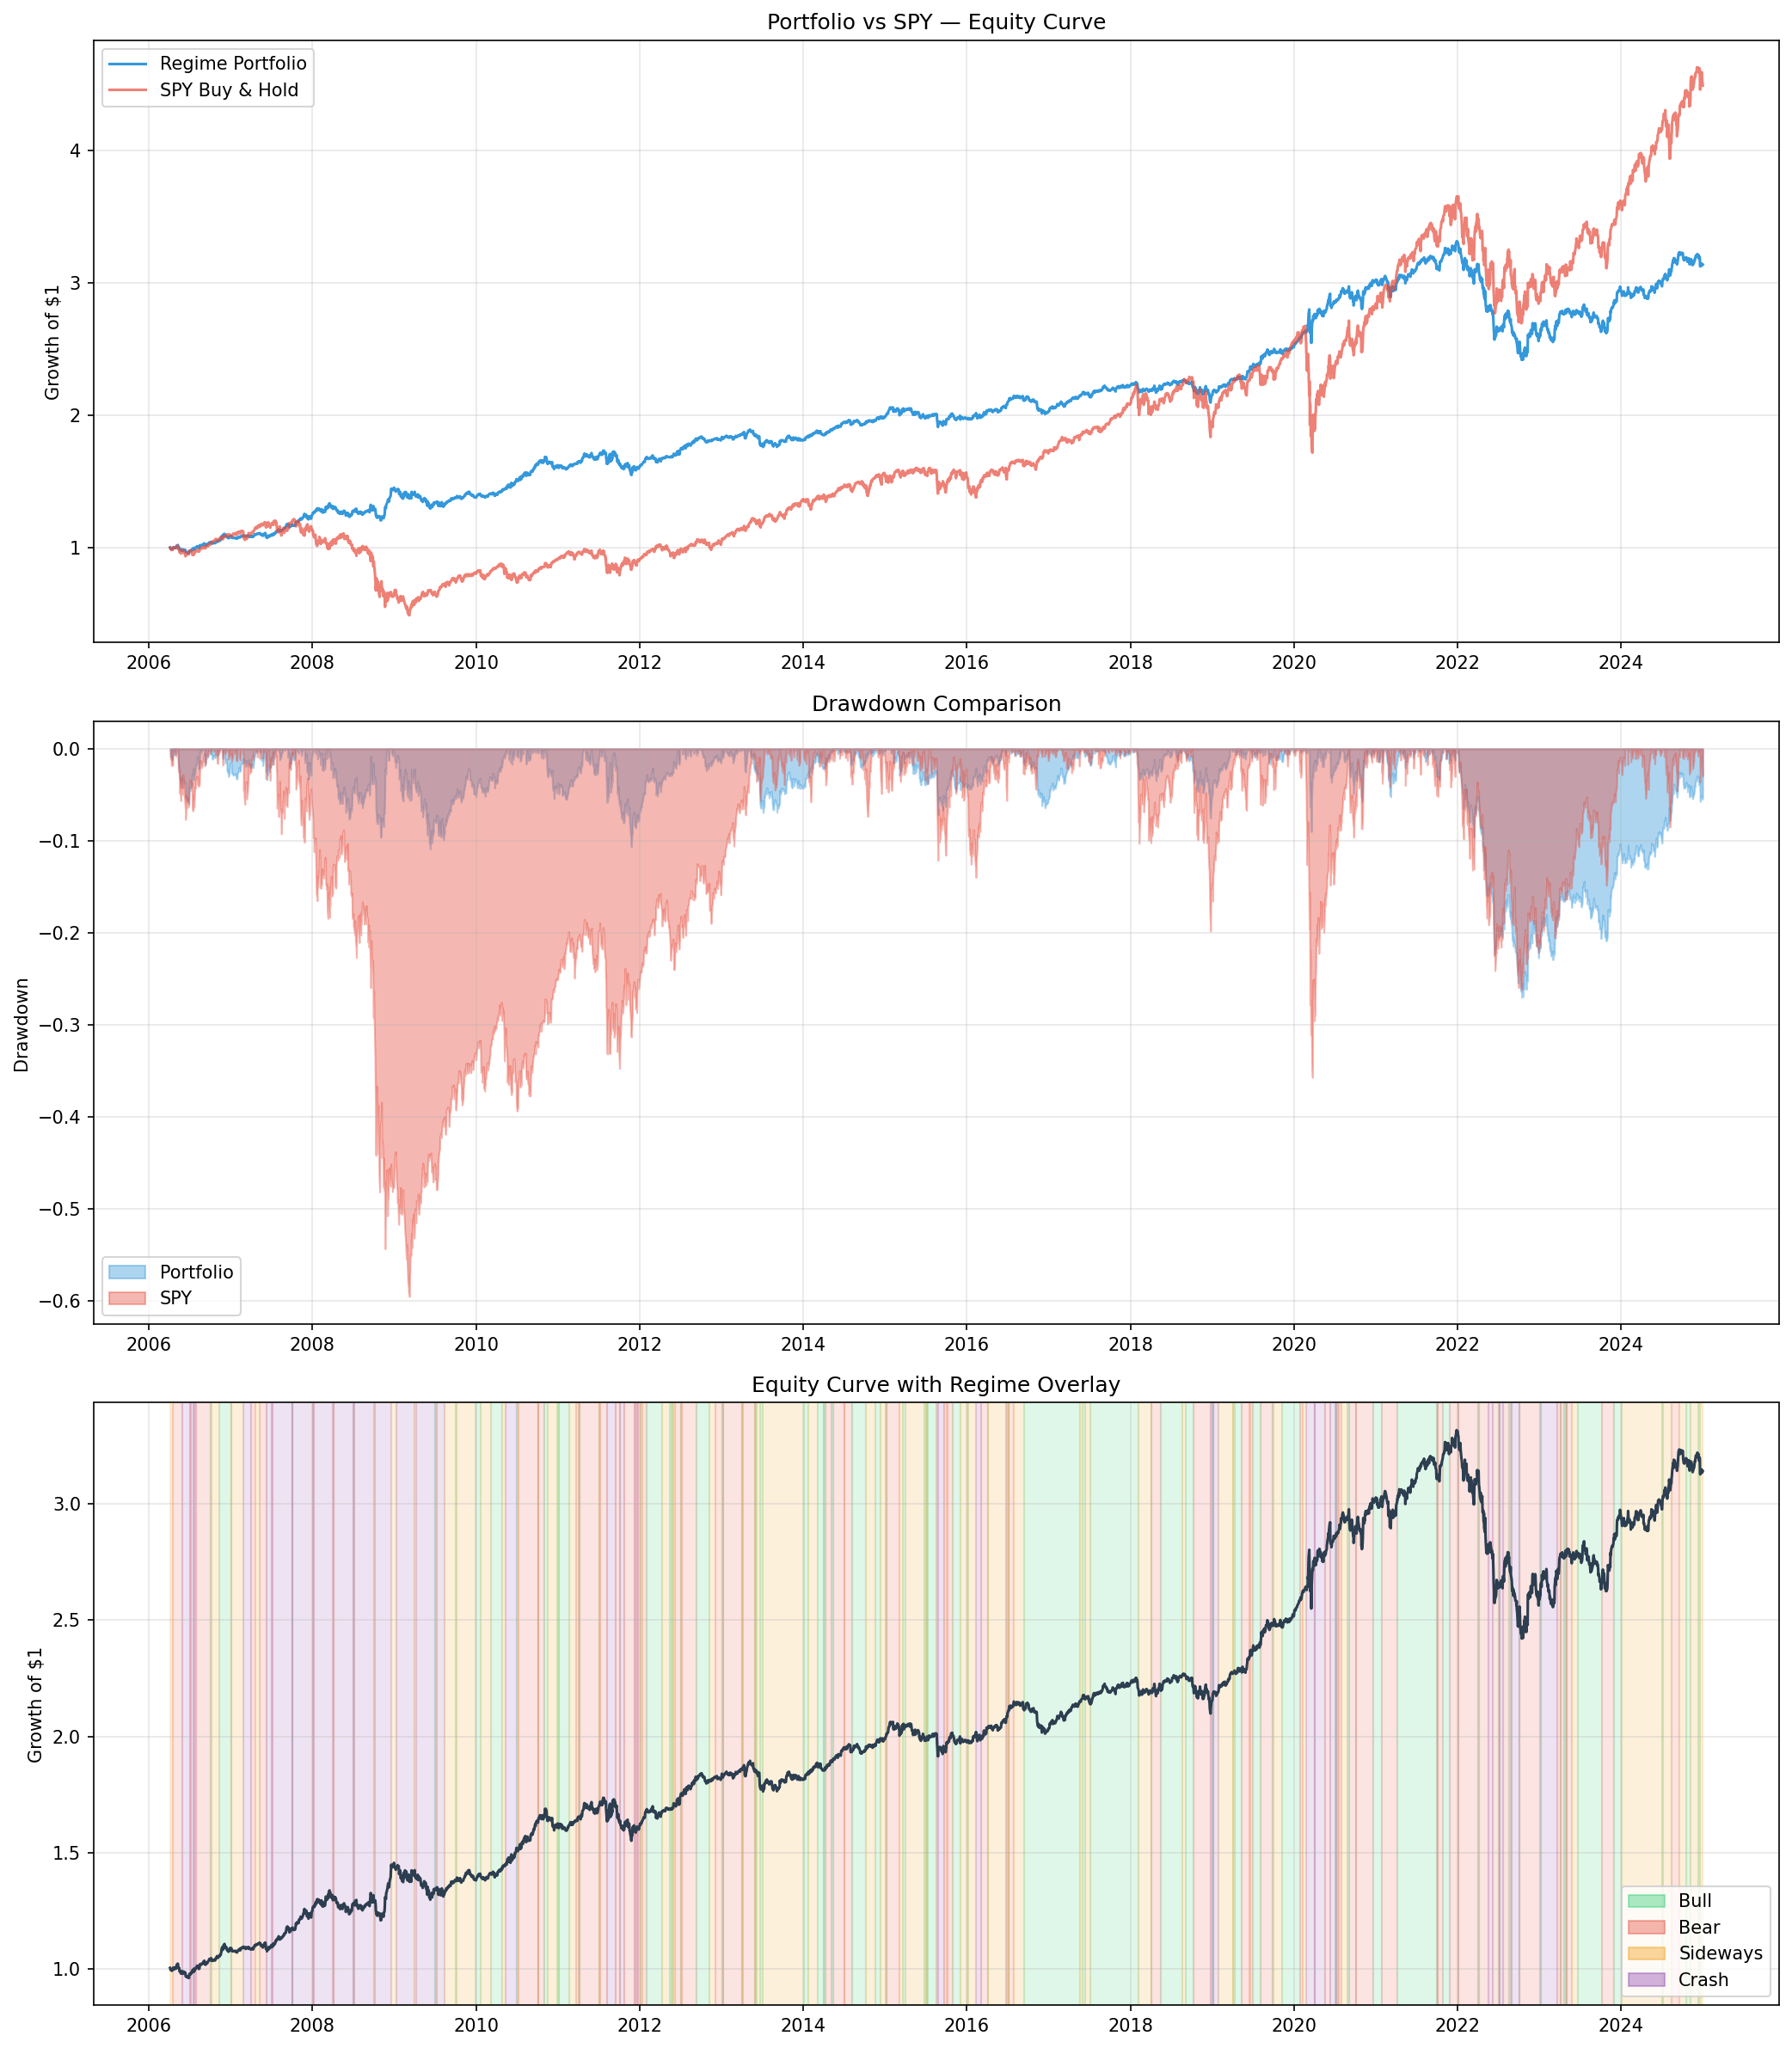
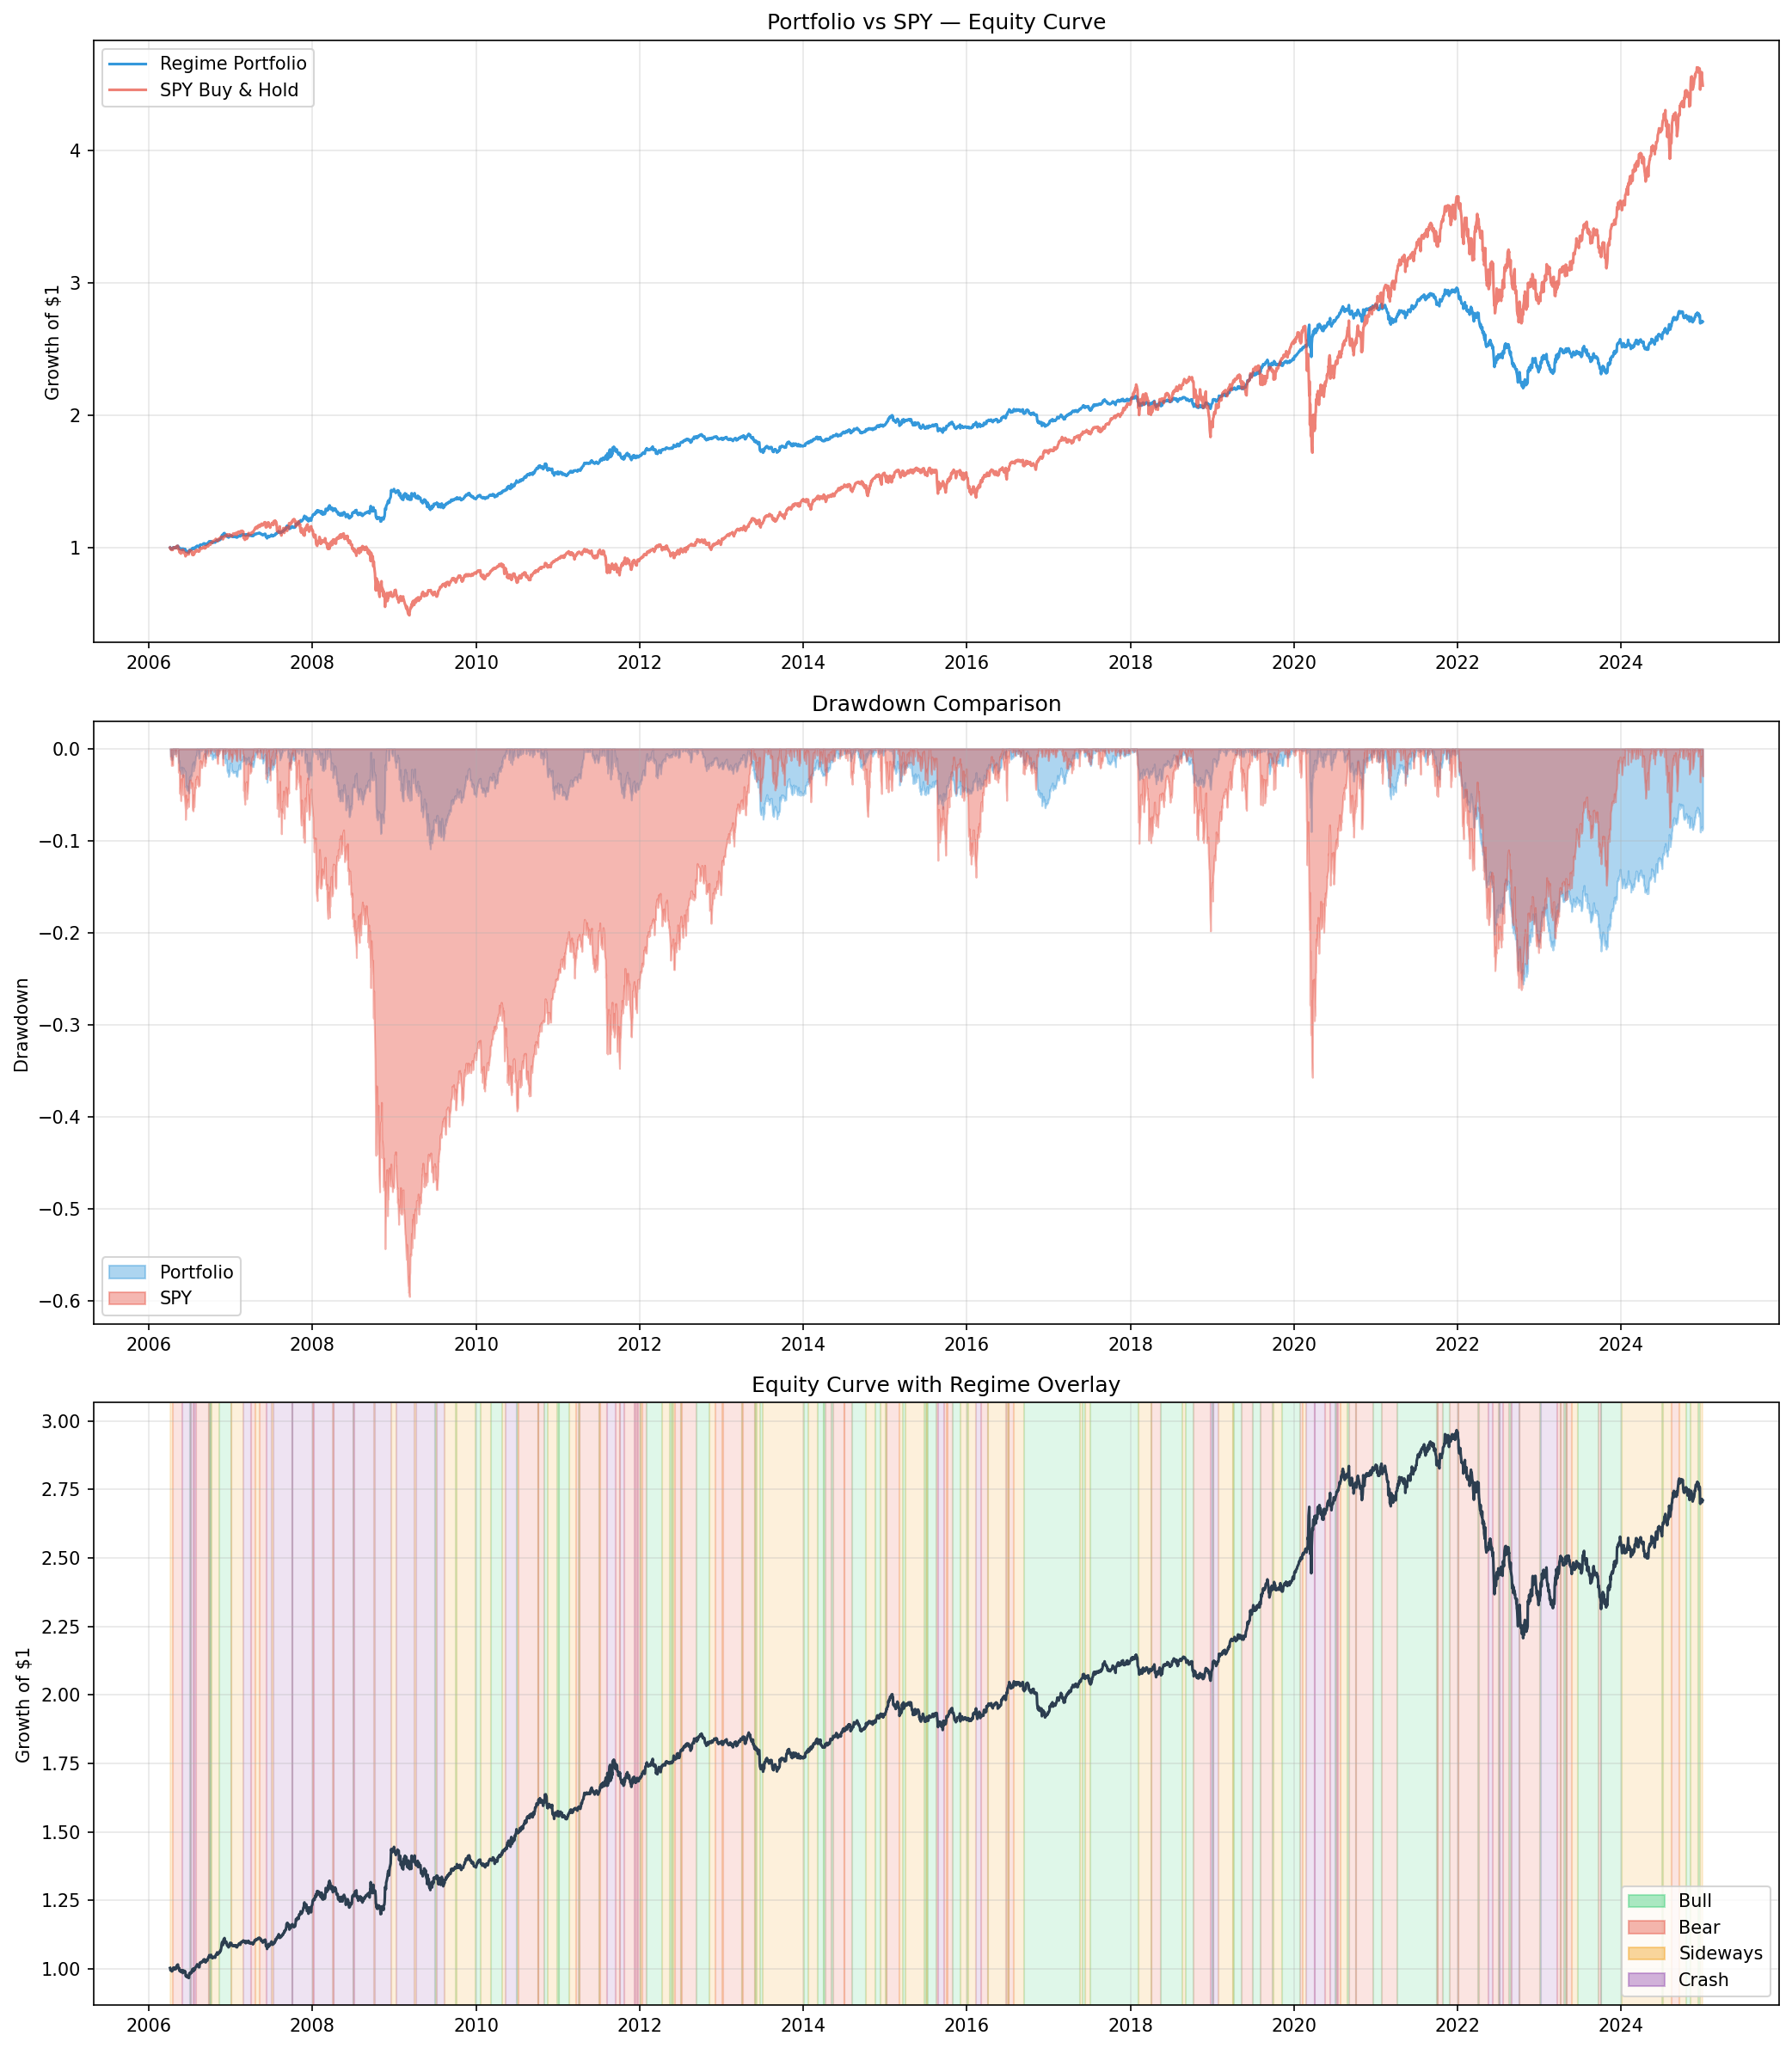
refactor: improve documentation and code clarity across multiple modules
- Simplified docstrings in `bootstrap.py`, `main.py`, and `hmm.py` for better understanding.
- Added `_cap_and_redistribute` function in `risk_parity.py` to enforce weight caps.
- Updated results in `ablation_results.csv` and `sensitivity_results.csv` for accuracy.
- Enhanced tests in `test_optimizers.py` and `test_switcher.py` for better coverage and clarity.

diff --git a/tests/test_optimizers.py b/tests/test_optimizers.py
@@ -147,3 +147,51 @@ def test_compute_weights_equal_weight_when_history_too_short():
     short_returns = returns.iloc[:50]
     w = compute_weights(make_regimes(short_returns, "Bull"), short_returns).dropna()
     assert np.allclose(w.values, 1.0 / N_ASSETS, atol=1e-6)
+    
+def make_correlated_returns(n: int = 750, seed: int = 11) -> pd.DataFrame:
+
+    rng = np.random.default_rng(seed)
+    annual_vols = np.array([0.16, 0.12, 0.15, 0.17, 0.06, 0.20, 0.08, 0.19])
+    corr = np.full((N_ASSETS, N_ASSETS), 0.35)
+    np.fill_diagonal(corr, 1.0)
+    daily_vols = annual_vols / np.sqrt(252)
+    cov_daily = np.outer(daily_vols, daily_vols) * corr
+    dates = pd.date_range("2015-01-01", periods=n, freq="B")
+    data = rng.multivariate_normal(mean=np.zeros(N_ASSETS), cov=cov_daily, size=n)
+    return pd.DataFrame(data, index=dates, columns=ASSETS)
+
+
+def test_risk_parity_achieves_equal_risk_contribution_with_correlated_assets():
+
+    from optimization.risk_parity import estimate_covariance
+    returns = make_correlated_returns()
+    sigma = estimate_covariance(returns)
+
+    w = risk_parity(returns)
+    assert w.max() < MAX_POSITION + 1e-6
+
+    risk_contrib = w * (sigma @ w)
+    risk_contrib_pct = risk_contrib / risk_contrib.sum()
+    spread = risk_contrib_pct.max() - risk_contrib_pct.min()
+    assert spread < 0.02, (
+        f"Risk contributions should be approximately equal even when the "
+        f"natural solution scale exceeds 1.0 per asset, got spread of "
+        f"{spread:.4f} across assets: {risk_contrib_pct}"
+    )
+
+
+def test_cap_and_redistribute_enforces_cap():
+    from optimization.risk_parity import _cap_and_redistribute
+    w = np.array([0.75, 0.10, 0.08, 0.07])
+    capped = _cap_and_redistribute(w, cap=0.6)
+    assert capped.max() <= 0.6 + 1e-9
+    assert capped.sum() == pytest.approx(1.0, abs=1e-9)
+    # excess from the capped asset should be redistributed proportionally
+    assert capped[1] > w[1] and capped[2] > w[2] and capped[3] > w[3]
+
+
+def test_cap_and_redistribute_noop_when_already_compliant():
+    from optimization.risk_parity import _cap_and_redistribute
+    w = np.array([0.3, 0.3, 0.2, 0.2])
+    capped = _cap_and_redistribute(w, cap=0.6)
+    assert np.allclose(capped, w)

diff --git a/tests/test_hmm.py b/tests/test_hmm.py
@@ -13,22 +13,12 @@ from backtest.bootstrap import block_resample, block_bootstrap_indices
 
 
 def test_count_params_known():
-    # n_states=2, n_features=3
-    # transition = 2*(2-1) = 2
-    # means = 2*3 = 6
-    # covariances = 2 * 3*4//2 = 12
-    # startprob = 2-1 = 1
-    # total = 21
+    # 2 states, 3 features.
     assert count_params(2, 3) == 21
 
 
 def test_count_params_four_states():
-    # n_states=4, n_features=3
-    # transition = 4*3 = 12
-    # means = 4*3 = 12
-    # covariances = 4 * 3*4//2 = 24
-    # startprob = 3
-    # total = 51
+    # 4 states, 3 features.
     assert count_params(4, 3) == 51
 
 
@@ -180,7 +170,7 @@ def test_fit_hmm_core_flags_non_convergence_with_low_n_iter(monkeypatch, capsys)
     monkeypatch.setitem(hmm_mod.CFG["hmm"], "n_iter", 1)
     monkeypatch.setitem(hmm_mod.CFG["hmm"], "n_init", 2)
 
-    # Well-separated clusters so a real fit needs more than 1 EM step to settle.
+
     rng = np.random.default_rng(0)
     features = rng.normal(0, 1, (900, 3))
     features[:300, 0] += 3
@@ -211,10 +201,7 @@ def test_fit_hmm_core_converged_true_with_ample_n_iter(monkeypatch):
 
 
 def test_label_states_uses_feature_cols_when_columns_reordered():
-    # means_ columns are in order [mean_corr, spy_vol, spy_return] here -
-    # the opposite of the assumed default [spy_return, spy_vol, mean_corr].
-    # Positional fallback (index 0/1) would rank by mean_corr - 0.5*spy_vol,
-    # giving the wrong answer. Name-based lookup should get it right regardless.
+
     model = MagicMock()
     model.means_ = np.array([
         [0.6, 0.03, -0.002],
@@ -235,9 +222,7 @@ def test_label_states_uses_feature_cols_when_columns_reordered():
 
 
 def test_label_states_skew_kurt_variant_ranks_by_return_only():
-    # skew_kurt ablation variant has columns [spy_return, spy_skew, spy_kurt] -
-    # no spy_vol at all. Should rank purely by return, NOT silently treat
-    # spy_skew as if it were volatility (that was the bug).
+
     model = MagicMock()
     model.means_ = np.array([
         [-0.002, 0.5, 3.0],
@@ -255,8 +240,7 @@ def test_label_states_skew_kurt_variant_ranks_by_return_only():
 
 
 def test_label_states_no_feature_cols_falls_back_to_positional():
-    # Backward compatibility: existing callers that don't pass feature_cols
-    # keep the original [index 0, index 1] behavior.
+
     model = MagicMock()
     model.means_ = np.array([
         [-0.002, 0.03],
@@ -271,9 +255,7 @@ def test_label_states_no_feature_cols_falls_back_to_positional():
 
 
 def test_block_bootstrap_indices_reused_gives_paired_consistency():
-    # Calling block_bootstrap_indices ONCE and applying the result to two
-    # different series (paired resampling) should select the same positions
-    # from both - this is what makes a paired block bootstrap valid.
+
     rng = np.random.default_rng(7)
     indices = block_bootstrap_indices(n=100, block_length=10, rng=rng)
 
@@ -287,8 +269,7 @@ def test_block_bootstrap_indices_reused_gives_paired_consistency():
 
 
 def test_block_bootstrap_indices_matches_block_resample():
-    # block_resample() should produce values consistent with directly
-    # indexing via block_bootstrap_indices with the same seed.
+
     returns = pd.Series(np.arange(200, dtype=float))
 
     rng1 = np.random.default_rng(99)
@@ -319,9 +300,7 @@ def test_select_n_states_return_models_gives_matching_models():
 
 
 def test_select_n_states_returned_model_matches_a_fresh_refit():
-    # The whole point of return_models: the returned model for the winning
-    # n_states should be usable directly, with no need to refit - confirm it's
-    # identical to what a fresh fit_hmm_with_n call would produce.
+
     from models.hmm import fit_hmm_with_n
 
     rng = np.random.default_rng(0)

diff --git a/optimization/risk_parity.py b/optimization/risk_parity.py
@@ -11,6 +11,21 @@ MAX_POSITION = CFG["optimizer"]["max_position"]
 def estimate_covariance(returns: pd.DataFrame) -> np.ndarray:
     return LedoitWolf().fit(returns).covariance_ * TRADING_DAYS
 
+def _cap_and_redistribute(weights: np.ndarray, cap: float, max_iter: int = 20) -> np.ndarray:
+
+    w = weights.copy()
+    for _ in range(max_iter):
+        over = w > cap
+        if not np.any(over):
+            break
+        excess = (w[over] - cap).sum()
+        w[over] = cap
+        under = ~over
+        if not np.any(under):
+            return np.ones(len(w)) / len(w)
+        w[under] += excess * (w[under] / w[under].sum())
+    return w / w.sum()
+
 def risk_parity(returns: pd.DataFrame) -> np.ndarray:
     sigma = estimate_covariance(returns)
     n = sigma.shape[0]
@@ -22,9 +37,9 @@ def risk_parity(returns: pd.DataFrame) -> np.ndarray:
     )
     
 
+
     constraints = [
     w >= 0.01,
-    w <= MAX_POSITION,
     ]
     
     prob = cp.Problem(objective, constraints)
@@ -35,4 +50,5 @@ def risk_parity(returns: pd.DataFrame) -> np.ndarray:
     
     weights = np.clip(w.value, 0, None)
     weights = weights / np.sum(weights)
+    weights = _cap_and_redistribute(weights, MAX_POSITION)
     return weights

diff --git a/models/hmm.py b/models/hmm.py
@@ -45,10 +45,6 @@ def _fit_hmm_core(features_scaled: np.ndarray, n_states: int) -> GaussianHMM | N
     chosen = best_model if best_model is not None else last_model
 
     if chosen is not None:
-        # hmmlearn's own `monitor_.converged` is True whenever `iter == n_iter`
-        # OR the tolerance was met - i.e. it also counts "ran out of iterations"
-        # as converged. We only want the genuine signal: did the log-likelihood
-        # improvement actually drop below tol before the budget ran out?
         history = chosen.monitor_.history
         tol = chosen.monitor_.tol
         chosen.converged_ = bool(
@@ -225,8 +221,7 @@ def label_states(model: GaussianHMM, feature_cols: list[str] | None = None) -> d
         return_idx = feature_cols.index("spy_return")
         vol_idx = feature_cols.index("spy_vol") if "spy_vol" in feature_cols else None
     else:
-        # Backward-compatible fallback for callers that don't pass feature_cols:
-        # assumes the original [spy_return, spy_vol, ...] column order.
+        # Fallback for callers that do not pass feature_cols.
         return_idx = 0
         vol_idx = 1 if model.means_.shape[1] > 1 else None
 
@@ -256,13 +251,11 @@ def label_states(model: GaussianHMM, feature_cols: list[str] | None = None) -> d
     return {ranking[i]: f"State{i}" for i in range(n)}
 
 def get_fitted_transition_matrix(model: GaussianHMM, state_labels: dict) -> pd.DataFrame:
-    """Reads a single fitted model's own theoretical transmat_ parameter directly.
+    """Return the fitted model's transition matrix in regime-label order.
 
-    This is distinct from main.compute_empirical_transition_matrix(), which counts
-    actual observed regime-label transitions across a walk-forward run (possibly
-    spanning many retrained models). The two are not interchangeable and will not
-    generally agree - this one reflects what one specific model learned, the other
-    reflects what actually happened across the full walk-forward output."""
+    This is distinct from main.compute_empirical_transition_matrix(), which
+    counts observed transitions across a walk-forward run.
+    """
     n = model.n_components
     labels = [state_labels[i] for i in range(n)]
     transmat = pd.DataFrame(

diff --git a/tests/test_switcher.py b/tests/test_switcher.py
@@ -34,7 +34,7 @@ def test_concentration_guard_triggers_on_crash_regime_extreme_weights():
     regimes_df = make_single_day_regime(date, "Crash")
 
     extreme = np.zeros(len(ASSETS))
-    extreme[ASSETS.index("IEF")] = 1.0  # 100% concentrated in one safe haven
+    extreme[ASSETS.index("IEF")] = 1.0
 
     with patch.dict(switcher_mod.OPTIMIZER_MAP, {"Crash": lambda r: extreme}):
         weights = switcher_mod.compute_weights(regimes_df, returns)
@@ -43,11 +43,7 @@ def test_concentration_guard_triggers_on_crash_regime_extreme_weights():
     assert np.max(w) < switcher_mod.CONCENTRATION_GUARD, (
         "Guard should have replaced the 100%-concentrated Crash allocation"
     )
-    # Fallback is now scoped to the Crash regime's own safe-haven subset
-    # (IEF/TLT/GLD), equal-weighted - NOT the full 8-asset universe. Falling
-    # back to the full universe would inject equity/risk exposure at exactly
-    # the moment Crash exists to avoid it (see audit §2.6 - this was a
-    # deliberate fix, not the original documented behavior).
+
     safe_havens = switcher_mod.SAFE_HAVEN_ASSETS
     expected = np.zeros(len(ASSETS))
     weight_each = 1.0 / len(safe_havens)
@@ -83,7 +79,7 @@ def test_concentration_guard_triggers_on_bull_regime_extreme_weights(monkeypatch
     extreme = np.zeros(len(ASSETS))
     extreme[ASSETS.index("QQQ")] = 1.0
 
-    # Bull bypasses OPTIMIZER_MAP and calls max_sharpe directly (see switcher.py).
+    # Bull uses max_sharpe directly.
     monkeypatch.setattr(switcher_mod, "max_sharpe", lambda r, rf: extreme)
 
     weights = switcher_mod.compute_weights(regimes_df, returns)
@@ -106,7 +102,7 @@ def test_concentration_guard_does_not_trigger_on_diversified_weights():
 
 
 def test_concentration_guard_fallback_helper_directly():
-    assets = switcher_mod.OPTIMIZER_MAP.keys()  # just to touch the module
+    assets = switcher_mod.OPTIMIZER_MAP.keys()
     all_assets = ["SPY", "TLT", "GLD", "EFA", "IEF", "QQQ", "LQD", "VNQ"]
 
     crash_fallback = switcher_mod._concentration_guard_fallback("Crash", all_assets)
@@ -116,6 +112,6 @@ def test_concentration_guard_fallback_helper_directly():
         if a not in switcher_mod.SAFE_HAVEN_ASSETS:
             assert crash_fallback[all_assets.index(a)] == 0.0
 
-    # Non-Crash regimes still fall back to full-universe equal-weight
+    # Non-Crash regimes fall back to full-universe equal-weight.
     bull_fallback = switcher_mod._concentration_guard_fallback("Bull", all_assets)
     assert np.allclose(bull_fallback, 1.0 / len(all_assets))

diff --git a/backtest/bootstrap.py b/backtest/bootstrap.py
@@ -11,15 +11,10 @@ N_ITERATIONS = CFG["bootstrap"]["n_iterations"]
 RANDOM_STATE = CFG["bootstrap"]["random_state"]
 
 def block_bootstrap_indices(n: int, block_length: int, rng: np.random.Generator) -> np.ndarray:
-    """Generate one set of block-bootstrap resample indices of length n.
+    """Generate block-bootstrap resample indices of length n.
 
-    Reusing the SAME returned array on multiple series (e.g. portfolio and
-    benchmark) preserves their joint/dependency structure - this is what makes
-    a paired block bootstrap valid, as opposed to resampling each series
-    independently. Previously duplicated inline in run_bootstrap() here and in
-    scripts/stress_tests.py::paired_block_bootstrap() - the two implementations
-    later diverged into different (and in one case, buggy) p-value formulas,
-    which is a large part of why this is now factored out into one place."""
+    Reuse the same indices across related series to preserve dependence.
+    """
     indices = []
     while len(indices) < n:
         start = rng.integers(0, n - block_length + 1)

diff --git a/main.py b/main.py
@@ -62,12 +62,11 @@ def compute_regime_runs(regimes_df: pd.DataFrame) -> pd.DataFrame:
 
 
 def compute_empirical_transition_matrix(runs_df: pd.DataFrame, labels: list[str]) -> pd.DataFrame:
-    """Empirical, run-based transition matrix: counts actual observed regime-label
-    transitions in a walk-forward output (% of exits from each regime).
+    """Build an empirical transition matrix from observed regime runs.
 
-    This is distinct from models.hmm.get_fitted_transition_matrix(), which reads
-    a single HMM model's own theoretical transmat_ parameter directly - the two
-    are not interchangeable and will not generally agree."""
+    This differs from models.hmm.get_fitted_transition_matrix(), which reads a
+    fitted model's theoretical transition matrix.
+    """
     trans = pd.DataFrame(0, index=labels, columns=labels)
     for i in range(len(runs_df) - 1):
         from_r = runs_df.iloc[i]["regime"]

diff --git a/tests/test_scripts.py b/tests/test_scripts.py
@@ -72,9 +72,7 @@ from data.process import compute_features, compute_returns
 from data.fetch import fetch_prices
 from config import load_config
 
-# test_ablation_run_single_keys removed: fully superseded by
-# test_ablation_run_single_does_not_touch_production_paths below, which
-# already calls run_single with synthetic data and checks these same keys.
+# test_ablation_run_single_keys was removed after being superseded.
 
 from models.hmm import _fit_hmm_core, forward_filter
 from sklearn.preprocessing import StandardScaler
@@ -118,10 +116,7 @@ def test_ablation_run_single_does_not_touch_production_paths(monkeypatch):
     )
     rf = pd.Series(0.0001, index=dates)
 
-    # Point every path run_single could plausibly write to at nonexistent
-    # files. If the old bug (writing features/returns/regimes to disk) were
-    # still present, this would either raise (parent dir missing) or the
-    # existence assertions below would catch it.
+    # Point all writable paths at nonexistent files so accidental writes fail.
     bogus_paths = {
         "features": "/tmp/should_not_be_written_features.parquet",
         "returns": "/tmp/should_not_be_written_returns.parquet",

diff --git a/tests/test_engine.py b/tests/test_engine.py
@@ -163,8 +163,7 @@ def test_run_accepts_returns_df_directly_without_reading_disk(tmp_path, monkeypa
         "is_retrain_date": [False] * 60,
     }, index=idx)
 
-    # Point CFG at a path that does not exist - if run() tried to fall back
-    # to reading from disk instead of using returns_df, this would raise.
+
     nonexistent_path = str(tmp_path / "does_not_exist.parquet")
     monkeypatch.setitem(engine_mod.CFG["paths"], "returns", nonexistent_path)
 

diff --git a/tests/test_main.py b/tests/test_main.py
@@ -25,8 +25,7 @@ def test_compute_regime_runs_single_regime():
 
 
 def test_compute_empirical_transition_matrix_known_case():
-    # Bull -> Bear -> Bull -> Crash: two exits from Bull (both to different
-    # targets is impossible here, both go... let's make it unambiguous.
+    # Bull -> Bear -> Bull -> Crash: two Bull exits, one to Bear and one to Crash.
     runs_df = pd.DataFrame({
         "regime": ["Bull", "Bear", "Bull", "Crash"],
         "duration": [5, 3, 2, 4],

diff --git a/tests/conftest.py b/tests/conftest.py
@@ -4,7 +4,7 @@ from unittest.mock import patch
 
 MOCK_RF_VALUE = 0.0001
 
-# Wide range intentionally covers any synthetic test data regardless of date thus no usage of CFG
+# Wide date range covers synthetic test data without depending on CFG.
 MOCK_RF_INDEX = pd.bdate_range("1990-01-01", "2050-01-01")
 
 @pytest.fixture(autouse=True)